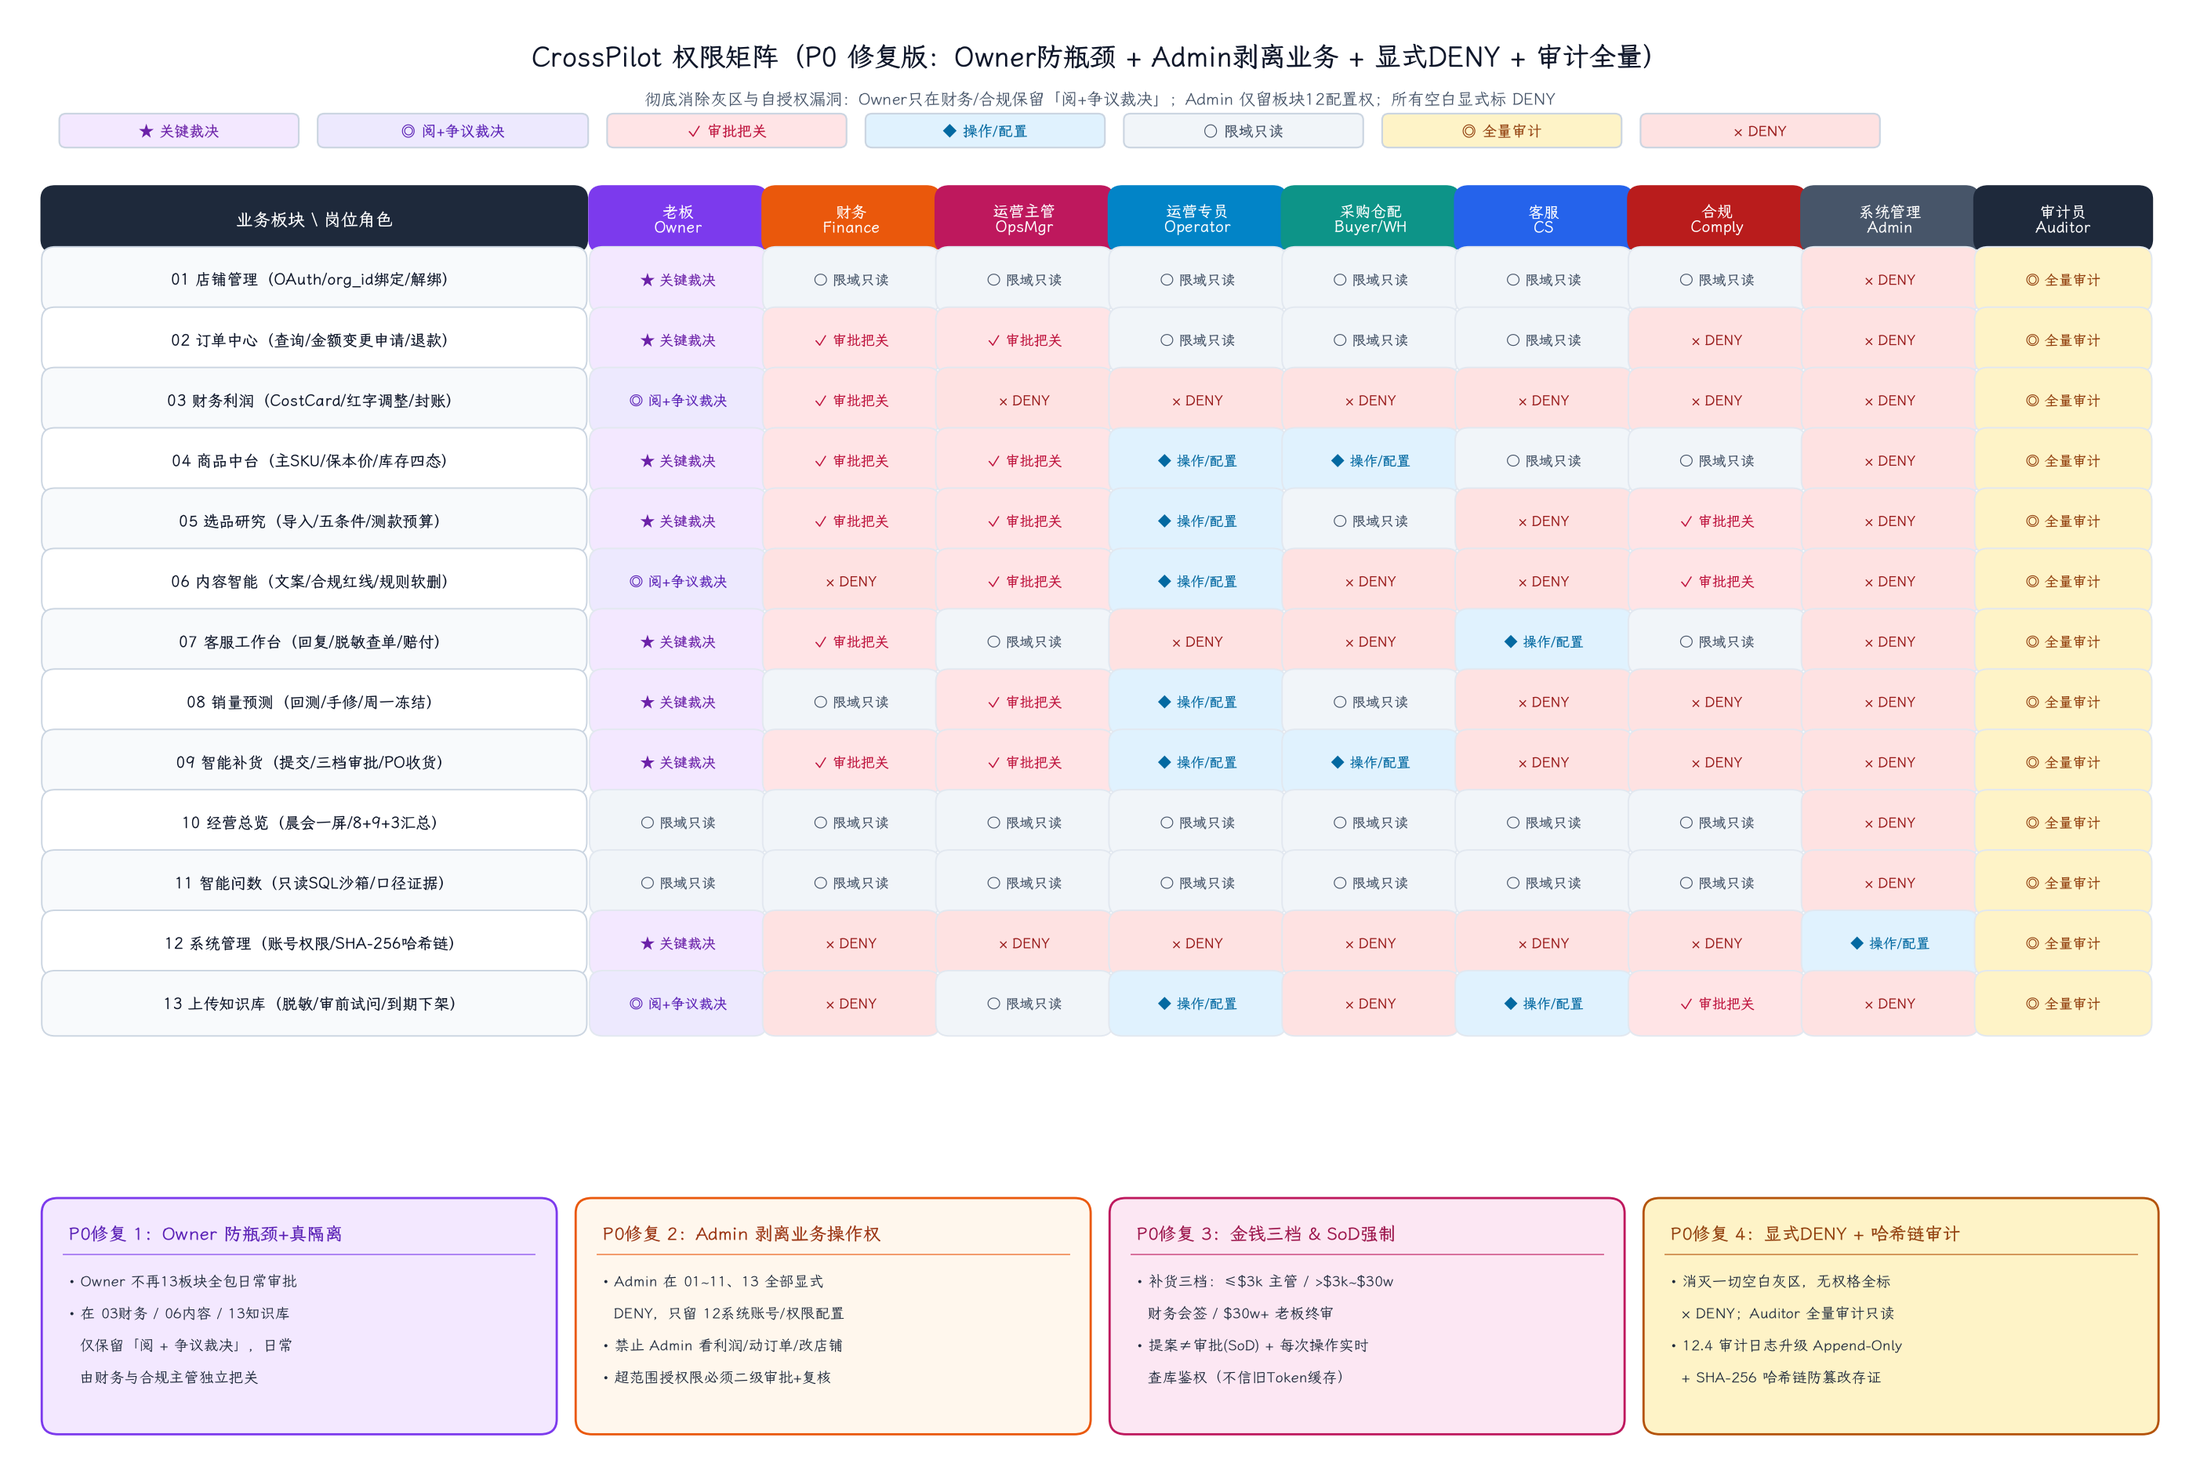
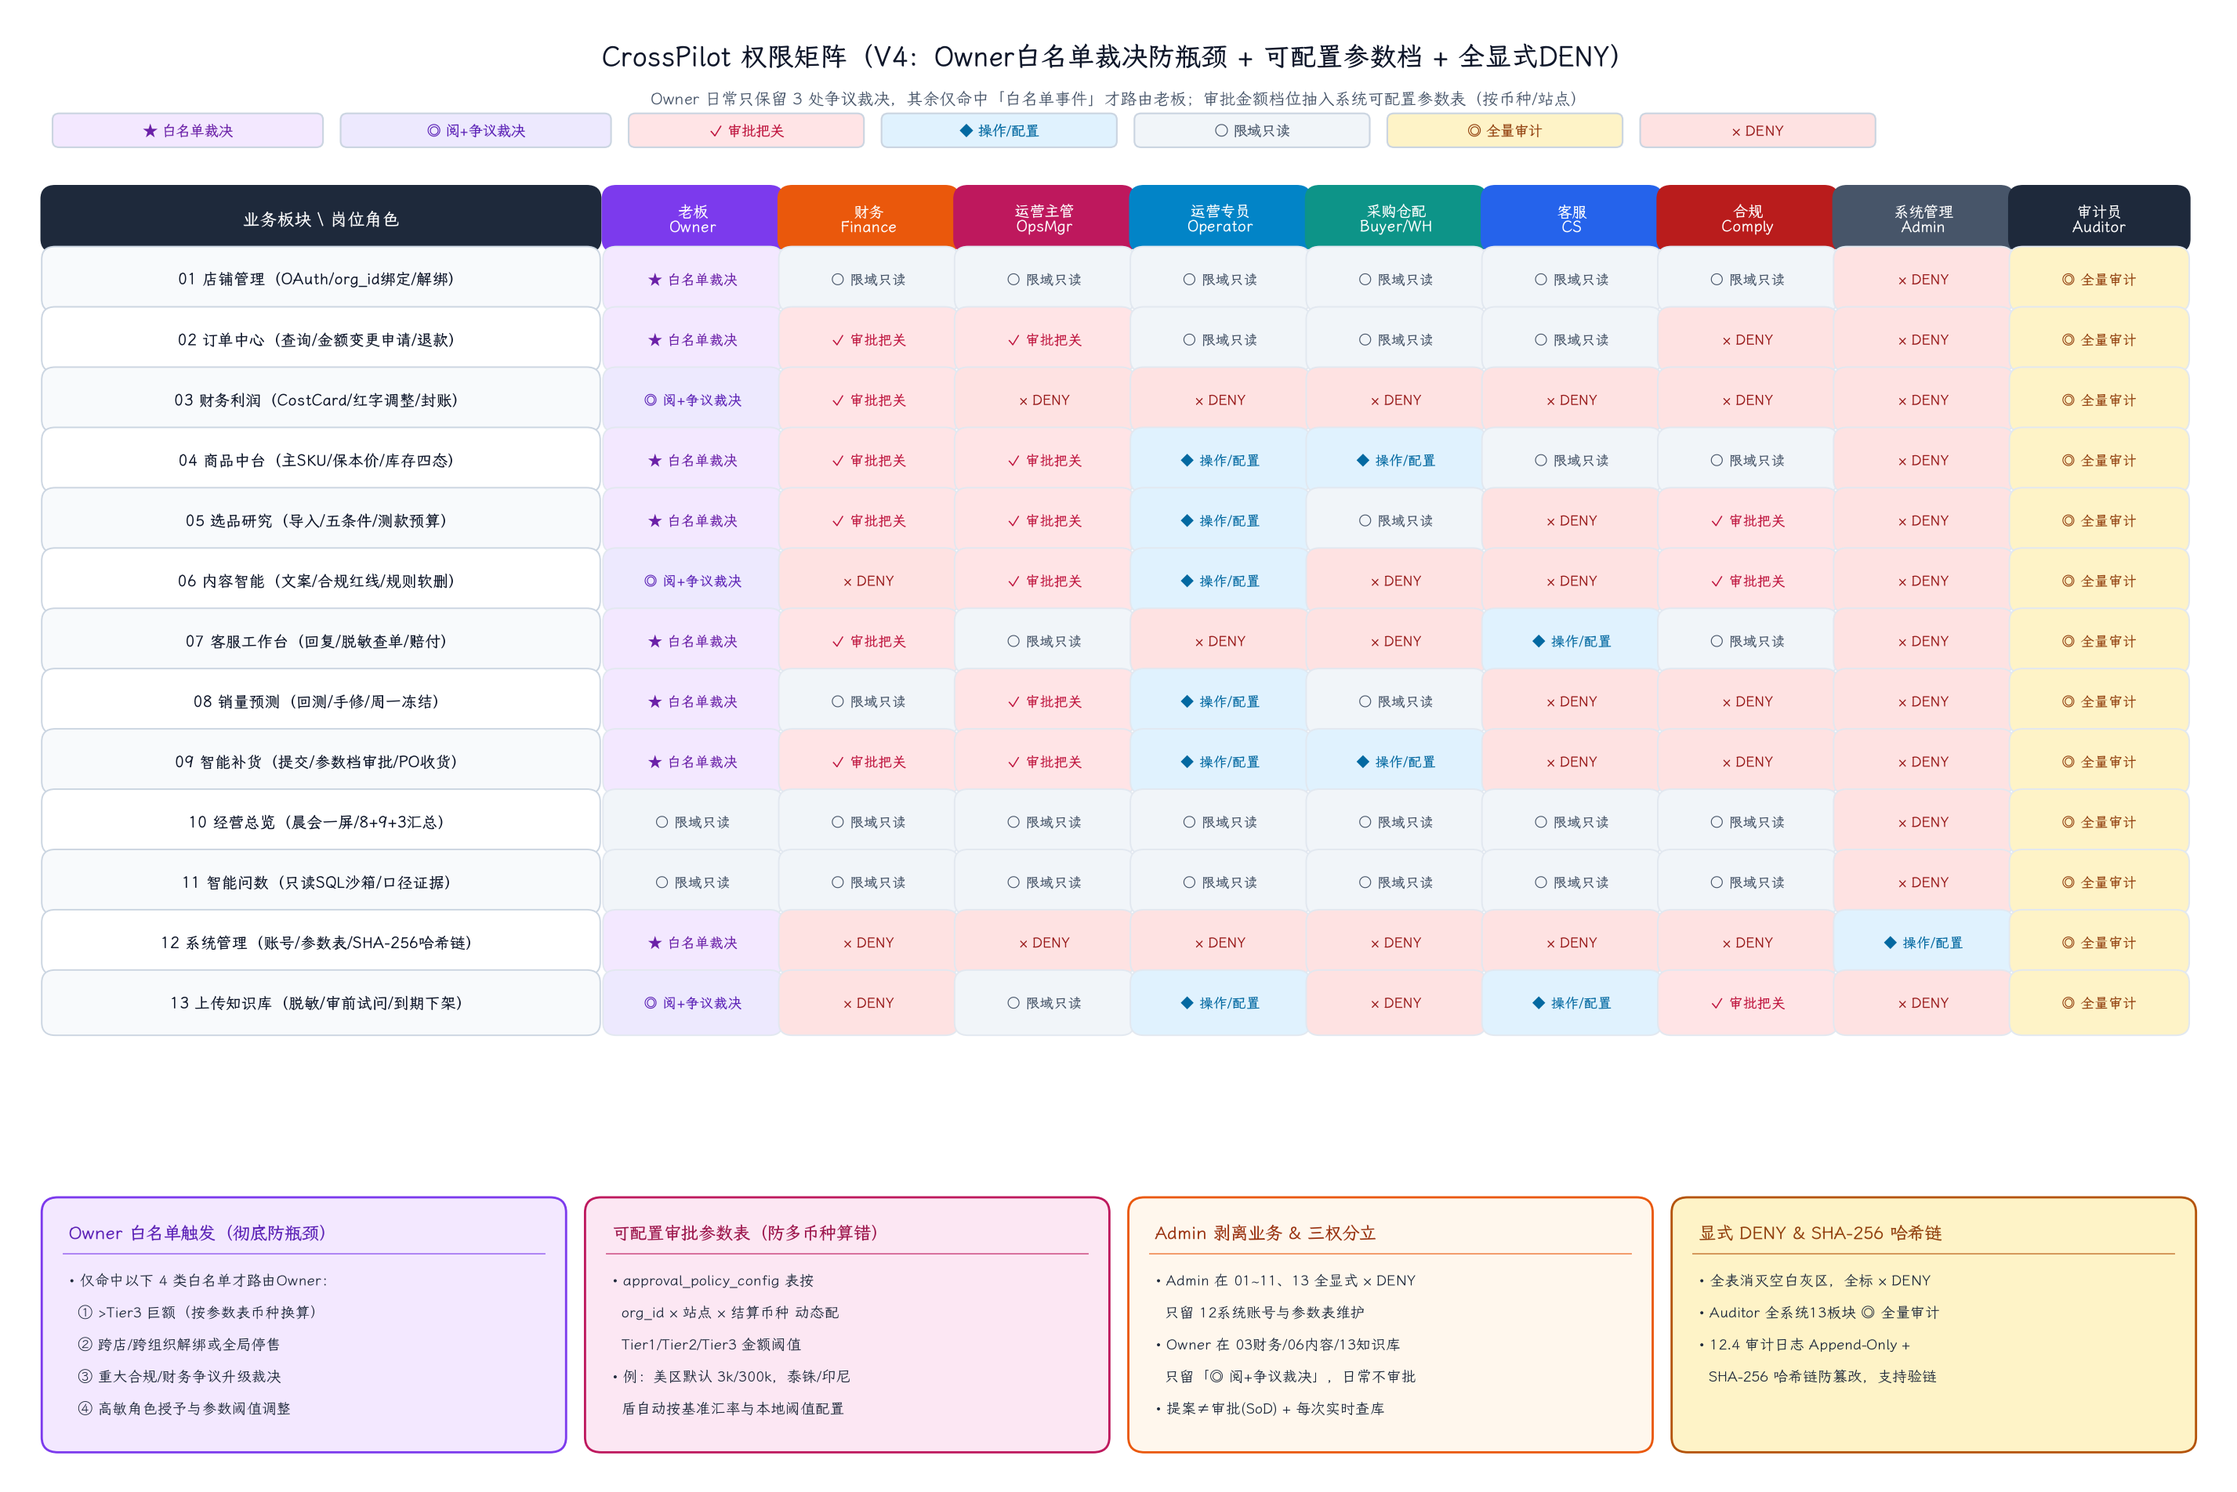
docs: 修复签名链3大P0结构缺口与3项P1参数/撤回/白名单机制(V5)
- P0-1: fact_signature 补齐 exchange_rate_ver / po_ver / promo_cal_id 共10因子
- P0-2: 拆成节点级签名子集(sig_finance/product/forecast/replenish)+周一冻结防改动风暴
- P0-3: 9补货→4商品库存回写先验po_ver+批次幂等+cause=PO_RECEIPT环检测防死循环
- P1-4: 三档审批抽成 approval_policy_config 可配参数表(按币种/站点)
- P1-5: 30秒撤回增加超时兜底(<=30s缓冲拦截 / >30s已入账只走红字调整单)
- P1-6: Owner升级为4项白名单裁决彻底防瓶颈；补充并发乐观锁row_version与总览水位线对齐

diff --git a/docs/prototypes/strict-rbac-and-controls.md b/docs/prototypes/strict-rbac-and-controls.md
@@ -1,58 +1,52 @@
-# 严格业务风控、9角色权限矩阵与全链路契约设计（V3 · P0/P1/P2 完善版）
+# 严格业务风控、9角色权限矩阵与节点级签名契约（V4 · 结构性定稿版）
 
 > 对应流程图目录：`docs/prototypes/modules/`（共 **16 张 PNG**：`m00_rbac_matrix.png` + `m01_shop.png` ~ `m13_kb.png` + `m14_ux_principles.png` + `m15_cross_module_contract.png`）  
-> 核心原则：**消除灰区（全显式 `DENY`）、剥离管理员业务权、Owner 防瓶颈、全链路 `fact_signature` 契约、SHA-256 哈希链审计、危险操作统一 30 秒撤回、P0 阻断必须先于 P1/P2 落地**。
+> 本版定死 **3 个结构性 P0 契约 + 3 个 P1 防踩坑机制 + 并发与水位线兜底**，保证后续写代码不推翻、不引发改动风暴、不死锁闭环。
 
 ---
 
-## 一、改进优先级地图（P0 → P1 → P2）
+## 一、P0 三大结构性修复（`m15_cross_module_contract.png`）
 
-1. **P0 阻断级（必须现在补齐，严禁带病上线）**：
-   - 权限矩阵修复：Owner 防瓶颈（财务/合规仅保留「阅+争议裁决」）；Admin 剥离所有业务板块操作权（`01~11, 13` 显式 `DENY`，仅留 `12 系统管理`）；消灭空白灰区全部显式 `DENY`；Auditor 明确赋予全量审计日志只读。
-   - 订单金额字段库级只读，任何修改必须走「金额变更申请单」。
-   - 销量预测每周一冻结，历史值禁改；**`WAPE > 30%` 硬拦截禁止直转自动补货**。
-   - 上传知识库强制扫 PII/底价及 **Excel 隐藏列**，未 `PUBLISHED` 禁止 AI 引用，**过期政策自动下架** + 影响问答预览。
-   - 补全跨板块 `fact_signature` 契约（覆盖 `8→9→4→2→3` 每个交接点）+ 补全异常闭环（审批驳回退回发起人 / 库存中途变动拦截重算）。
-   - 板块 12 审计日志升级为 **Append-Only + SHA-256 哈希链防篡改**。
-   - 专设板块 10「经营总览」老板一屏晨会视图（汇总 `8预测+9补货+3财务+2订单+7客服`）。
-2. **P1 体验级（顺手度提升）**：
-   - Auto-Fill 必标「来源 + 可编辑」；拦截明示「违反哪条规则 + 怎么改 + 一键跳转」。
-   - 危险操作（退款 / 内容发布 / 商品改价 / 客服发送 / 补货提交）统一 **30 秒撤回窗口**。
-   - 店铺失败重试 3 次指数退避转人工单 + SLA 超时逐级通知；财务按结算日锁汇率、CostCard Diff 高亮；选品模板下载 + 异常列高亮 + 评分权重模板保存；内容 5 秒存稿 + `bilingual` 一键采纳 + 红线高亮一键替换；客服近 3 单 + 设备 + PII 脱敏 + 快捷回复；知识库审前「模拟买家试问盒」。
-3. **P2 增强级（长期建设）**：
-   - 移动端审批、数据埋点看板、AI 意图识别置信度展示、评分模板市场、多情景仿真沙箱演练、跨板块日志关联查询、规则变更影响分析、多语言/多时区深度适配。
+### 1. 签名全集补齐 3 个关键版本因子（共 10 个因子）
+```text
+org_id | shop_id | sku_ver | cost_card_ver | exchange_rate_ver | sales_cutoff_ts | inv_snapshot_id | promo_cal_id | forecast_run_id | po_ver
+```
+- 新增 **`exchange_rate_ver`**：防止锁汇率变动不被下游财务与补货察觉；
+- 新增 **`po_ver`**：防止 PO 锁数量/单价变动不被收货与总览察觉；
+- 新增 **`promo_cal_id`**：防止大促改期（如 Prime Day/双 11 调档）预测不重算。
 
----
+### 2. 拆成「节点级签名子集」（彻底消灭改动风暴）
+如果全链共用一个大签名，每天 `sales_cutoff_ts` 变动就会导致下游 5 个模块天天同时判失效。改按实际依赖拆分子集：
+- **`sig_order (2)`** = `SHA256(org_id | shop_id | sales_cutoff_ts | order_ver)`
+- **`sig_finance (3)`** = `SHA256(org_id | shop_id | cost_card_ver | exchange_rate_ver | sales_cutoff_ts)` *(不依赖大促日历和预测)*
+- **`sig_product (4)`** = `SHA256(org_id | shop_id | sku_ver | inv_snapshot_id | cost_card_ver)`
+- **`sig_forecast (8)`** = `SHA256(org_id | shop_id | sku_ver | sales_cutoff_ts | inv_snapshot_id | promo_cal_id)` → **每周一冻结成不可变 `forecast_run_id`**，防止日常新单震荡周预测基线；
+- **`sig_replenish (9)`** = `SHA256(org_id | shop_id | sku_ver | cost_card_ver | exchange_rate_ver | inv_snapshot_id | forecast_run_id | po_ver)`
+- **`sig_dashboard (10)`** = 引用各站冻结快照与 `data_as_of` 水位线对齐（若财务落后订单超 SLA 阈值，亮黄警明示「口径差」而不触发重算风暴）。
 
-## 二、企业级 9 角色权限矩阵（P0 修复版 · 见 `m00_rbac_matrix.png`）
+> **附加并发防抢占机制**：跨板块上游保护靠节点签名子集，同一条单据的多人并发写（如同时审批同一 PO 或改同一 CostCard）靠 **乐观锁 `row_version` + 请求头 `Idempotency-Key`** 保证不覆盖、不重单。
 
-| 岗位角色 | 定位 | 核心权限边界 | 严禁越权与三权分立隔离 |
-|---|---|---|---|
-| **1. 老板 (`owner`)** | 关键决策 + 异常裁决 | 关键节点拍板（店铺解绑/大额补货 `$30w+`/大额异常退款/高敏授权二级复核）；一屏晨会只读全盘 | **防瓶颈 & 三权分立**：在 `03 财务利润`、`06 内容`、`13 知识库` **仅保留「阅 + 争议裁决」**，不插手日常审批 |
-| **2. 财务 (`finance`)** | 钱袋子与账务主责 | 日常费用导入、`CostCard` 编审锁版、汇率锁算、月结核算；审批订单退款、选品利润、`$3k~$30w` 补货会签 | 无权操作内容、客服对话、预测修改、系统管理（全部显式 `DENY`） |
-| **3. 运营主管 (`ops_manager`)** | 日常业务审批 | 审批小额退款/订单跳态、商品改价停售、选品常规测款、内容发布、预测手修、`≤$3k` 补货 | **禁止自提自批（SoD）**；`03 财务`、`12 系统管理` 显式 `DENY` |
-| **4. 运营专员 (`operator`)** | 日常运营提交 | 商品维护、选品导入提审、内容草稿生成、预测提交、补货提交、`13 知识库` 草稿上传 | **严禁自批**；`03 财务`、`07 客服`、`12 系统` 显式 `DENY` |
-| **5. 采购仓配 (`warehouse_buyer`)** | 货流与三单收货 | 维护库存盘点单、按审批生成锁定数量 PO、三单匹配收货质检（不合格品进隔离区） | 禁止修改审批后 PO 数量；`03 财务`、`05~07`、`12~13` 显式 `DENY` |
-| **6. 客服 (`cs_agent`)** | 买家沟通与工单 | 脱敏查近 3 单+设备、AI 辅助翻译(`bilingual` 一键采纳)与回复、建售后补偿申请、传 KB 草稿 | 命中四类红线强制切人工；`03/05/06/08/09/12` 显式 `DENY` |
-| **7. 合规 (`compliance`)** | 规则与法务红线 | 选品合规一票否决；主责维护内容规则库（版本化/双人生效/回滚/软删）与审发 `13 知识库` | `02/03/08/09/12` 显式 `DENY` |
-| **8. 系统管理员 (`sys_admin`)** | 纯技术账号配置 | **仅在 `12 系统管理` 配账号与权限模板**；超最小权限模板须二级审批；离职二次复核秒失效 | **彻底剥离业务权**：`01~11`、`13` **全部显式 `DENY`**，禁碰店铺/订单/财务 |
-| **9. 审计员 (`auditor`)** | 全量独立监督 | **全系统 13 板块 + `12.4` 哈希链审计日志全量只读** | 全系统零写权限 |
+### 3. `9 补货 → 4 商品库存回写` 校验与环检测（Cycle Guard）
+- **回写先验原签名**：`9.5` 三单匹配收货回写库存前，校验本次 `po_ver` 与收货批次 `idempotency_key`；
+- **只推新不破旧**：回写成功后生成 **新一代** `inv_snapshot_id (v+1)` 并打标 **`cause = PO_RECEIPT:{po_id}`**，已锁定的旧 PO 永久绑定历史快照，不被新库存反向判失效；
+- **环检测防死循环**：带 `cause = PO_RECEIPT` 的库存更新仅刷新 `4 商品` 可售库存及未提交草稿，**严禁**再次回流触发同一 `po_id` 或自动新建下一张补货单，打破 `9 → 4 → 9` 死环。
 
 ---
 
-## 三、全链路契约与逐板块 P0/P1 核心清单（对应 `m01~m15`）
+## 二、P1 三大防踩坑优化（`m00_rbac_matrix.png` & `m14_ux_principles.png`）
 
-- **全链路契约（`m15_cross_module_contract.png`）**：`fact_signature = SHA256(org_id | shop_id | sku_ver | cost_card_ver | sales_cutoff_ts | inv_snapshot_id | forecast_run_id)` 贯通 `2订单 → 3财务 → 4商品 → 8预测 → 9补货 → 10总览`。任一上游变动即拒绝旧批并退回重算，驳回必须填理由退回发起人待办。
-- **1 店铺（`m01_shop.png`）**：OAuth scope 越权直接拒+留痕；`org_id` 责任书 1 对 1 硬校验、解绑二次审批；同步失败重试 3 次指数退避转人工单；SLA 超 1h 逐级通知。
-- **2 订单（`m02_order.png`）**：`order_id+平台` 去重；金额库级只读必须走变更申请单；状态机跳态须审批；退款分级+退回填因+30 秒撤回。
-- **3 财务（`m03_finance.png`）**：结算日锁汇率超波动冻结重算；`CostCard` Diff 高亮+缺项禁核算；月结后仅走红字调整单+老板批+哈希存证；负毛利标红附疑似原因。
-- **4 商品（`m04_product.png`）**：一码多物/重复 ASIN 实时拦截；保本价硬校验+成本变动重算通知；改价停售先展受影响订单库存；四态分列且缺 PO 在途禁转可售。
-- **5 选品（`m05_selection.png`）**：字段映射模板化+异常列高亮+正确模板下载；五条件逐条显因、合规不过禁选；权重可存模板；测款 `≤$25/款` 硬上限；10 天出单异常高亮+一键复盘报告。
-- **6 内容（`m06_content.png`）**：5 秒自动存稿+`bilingual` 一键采纳；红线命中 `BLOCKED`+高亮一键替换（不可跳过）；三状态机+高风险送合规+30 秒撤回；规则库版本化双人确认+回滚+软删。
-- **7 客服（`m07_cs.png`）**：负面/退款自动升级；查单带近 3 单+设备+PII 脱敏；四类命中转人工；30 秒撤回+补偿分级审批。
-- **8 预测（`m08_forecast.png`）**：不完备直拒明示缺啥；WAPE 展示+算法切换；手修必填理由+影响预览；每周一冻结历史禁改+**`WAPE>30%` 硬拦截禁自动补货**。
-- **9 补货（`m09_replenish.png`）**：全链路 `fact_signature` 校验+显示货期；三方比价到仓天数+风险量；三档审批（`≤$3k` 主管 / `>$3k~$30w` 财务 / `$30w+` 老板），期间变数退回重算；PO 锁数量；三单匹配上架坏品隔离。
-- **10 总览（`m10_dashboard.png`）**：汇总 `8+9+3+2+7` 老板一屏晨会视图；核验签名与 SLA；按角色裁剪脱敏；红灯一键跳转。
-- **11 问数（`m11_qa.png`）**：写库/改价/删记录直拒；SQL 生成前注入 RBAC；只读沙箱禁直连生产库+空数据/跨表校验；数字附来源表+口径+导出+常用问题芯片。
-- **12 系统（`m12_rbac.png`）**：9 岗最小权限超范围二级审批；离职二次复核秒失效+到期自动回收；每次实时查库非缓存；**Append-Only + SHA-256 哈希链防篡改**。
-- **13 知识库（`m13_kb.png`）**：PII/底价脱敏（**含扫描表格隐藏列**）；生效范围与可视化预览；审前模拟买家试问、未 `PUBLISHED` 禁引用；**过期政策自动下架+影响问答预览**。
+### 4. 三档审批阈值参数化（`approval_policy_config`）
+- 彻底去掉图中写死的 `$3k / $30w` 硬编码，改为按 **`org_id × 站点 × 结算币种 × 业务类型`** 从系统参数表 `approval_policy_config` 动态读取 `Tier1 / Tier2 / Tier3` 阈值（示例种子：美元区默认 `≤$3k` 主管、`>$3k~$30w` 财务、`>$30w` 老板；泰铢/印尼盾/英镑站点按各自币种阈值自动换算路由），防止多币种算错审批档位。
+
+### 5. 30 秒撤回窗口超时兜底（双状态机）
+- **缓冲态（`≤ 30 秒`，`PENDING_DISPATCH`）**：退款/内容发布/商品改价/客服发送/补货提交在 30 秒倒计时内处于延迟队列缓冲，点 `[撤回]` **真正拦截不入账/不出站**；
+- **超时兜底（`> 30 秒`，`COMMITTED`）**：超过 30 秒交易已入账或消息已发出，撤回按钮物理灰掉并明示「已入账不可真撤回」，强制引导走 **「红字调整单 / 退款申请单 / 公开致歉或下架更正单」** 并写入 SHA-256 哈希链审计日志。
+
+### 6. Owner 白名单裁决（彻底防老板瓶颈）
+- 日常业务 `95%` 流程完全下放财务、运营主管与合规；
+- Owner 在 `03 财务 / 06 内容 / 13 知识库` 仅留 **`◎ 阅 + 争议裁决`**，在其余业务板块改为 **`★ 白名单裁决`**（仅命中以下 4 类白名单事件才路由老板）：
+  1. 金额超过参数表 `Tier3` 巨额上限；
+  2. 跨店铺/跨组织解绑或全局停售；
+  3. 重大合规/财务争议升级裁决；
+  4. 高敏角色授予或修改 `approval_policy_config` 参数阈值。
+- **Admin 彻底剥离业务权**：`01~11, 13` 全部显式 `× DENY`，仅留 `12 系统管理` 配置；**Auditor** 全系统 13 板块 **`◎ 全量审计`**（全系统零写）。
